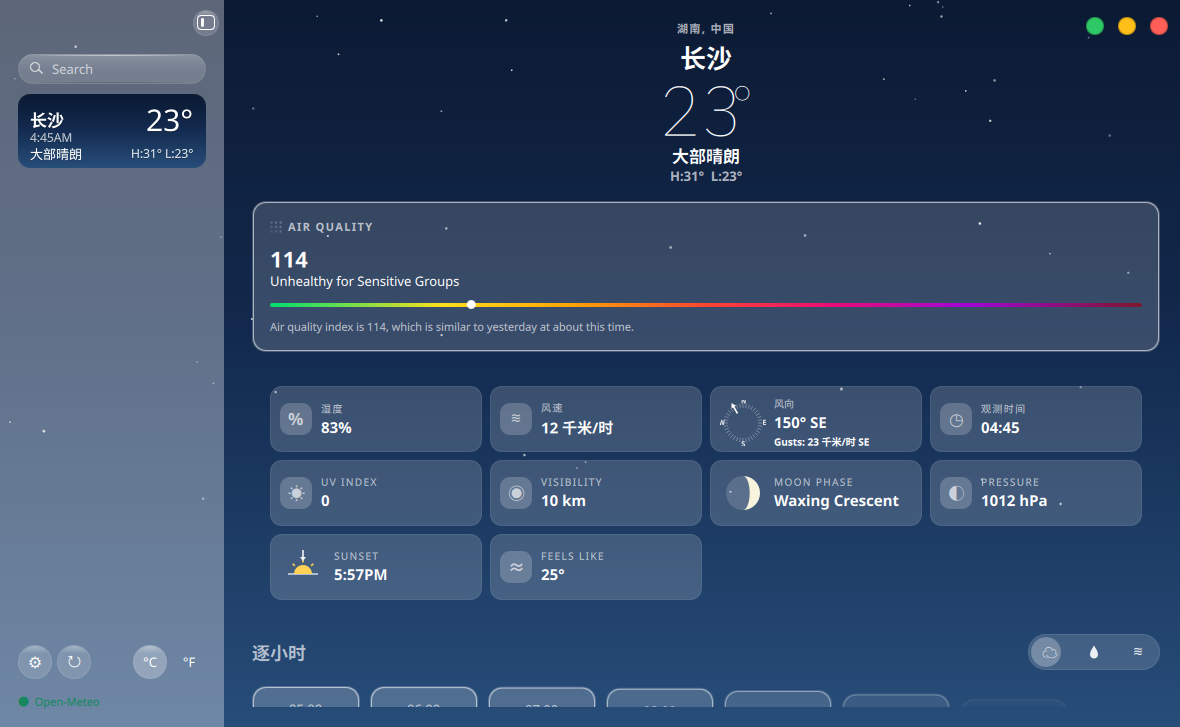
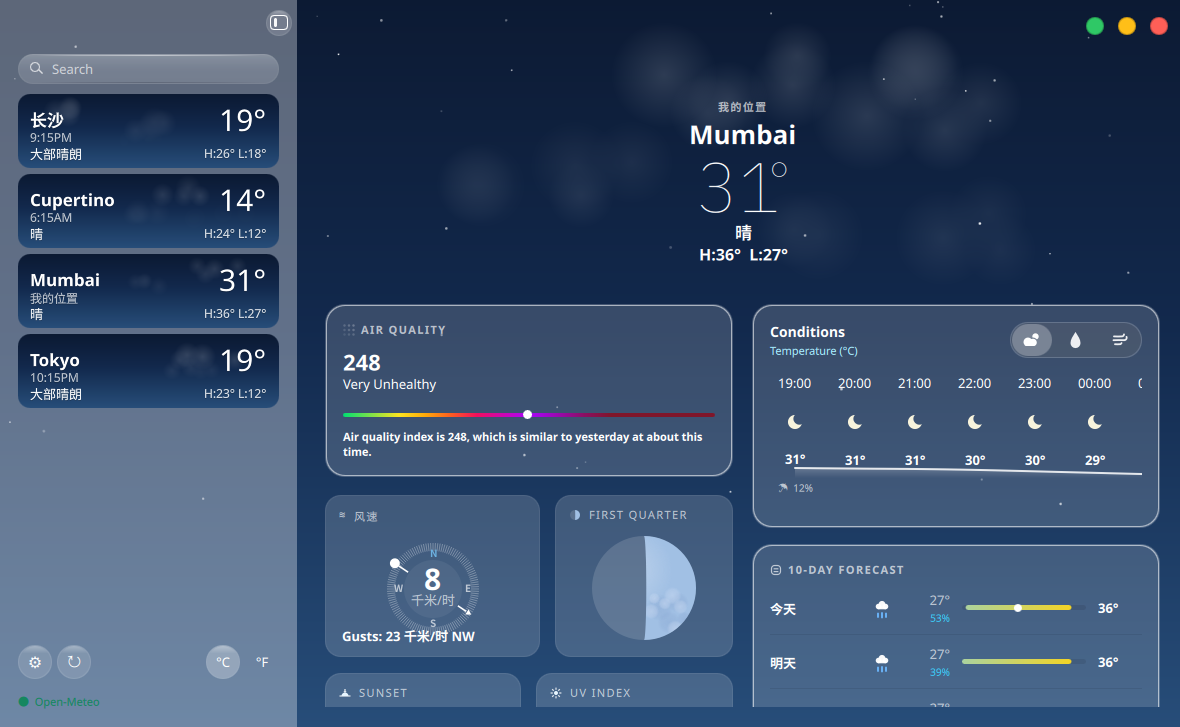
docs: round 65 进度与截图

diff --git a/docs/ui-weather/LEDGER.md b/docs/ui-weather/LEDGER.md
@@ -4,6 +4,10 @@
 参考实测色（814×498 主图采样）：天空 `#2961a7→#1469bc→#538ec9`（上→下，含云照片）；Conditions 卡 `#0057b2`；hero 文本 `#ffffff`；10天条渐变 青→黄→橙。
 
 ## 已改
+- **侧栏宽度首次校准：224 → 297（本轮，前端，零 Go/C++/shared 改动，巡检轮新发现）**：ref-main 侧栏右缘多点实测 x205（y=60/120/250/300 一致，sidebar bg (149,161,184) vs 主区 (93,122,166) 描边清晰）× 窗比 1180/814 ≈ **297px**——LEDGER 此前从未校准过侧栏宽度（grep 无记载），我方沿用 shared `AppTheme.sidebarWidth` 224（占比 19.0% vs ref 25.2%，本轮最大未校准残差）。`apps/weather/qml/Main.qml:19` 新增 `readonly property int weatherSidebarWidth: Math.round(297 * AppTheme.densityScale)`（shared 值 music 引用不动，weather 内 weather 局部覆盖）；三处非 compact 用点换用：`:565` clearSkyCloudLayer.cloudLeft、`:717` nightClearCloudLayer.cloudLeft、`:978` KosSidebar.expandedWidth（`AppTheme.compactSidebarWidth` 196 保持，窄窗/收起不受影响）。
+  **实测**（本轮二进制截图 tmp/shots/sbwidth-1792330584.png 过体检闸 ✅ 1180×727，dev env `XDG_STATE_HOME=/tmp/kos-weather-test-state` + `KOS_DATA_SOCKET=/tmp/kos-weather-dev.sock` + `KOS_SCREENSHOT_DELAY_MS=2500`）：侧栏右缘 x297 精确（y=500/700 双行描边一致）、占比 25.2% vs ref 25.2% 命中；卡片/搜索胶囊 fillWidth 自适应无裁切、AQ 描述随窄内容区换 2 行正常、hero/两列 masonry/10 天条无破绽。
+  **测试**：Qt `Totals: 6 passed, 0 failed`（env -u KOS_DATA_SOCKET）、go test ok。静态几何无动效改动，无帧差义务。
+  **残差（外推待确认）**：a) 297 系按 LEDGER 既有 ×1.4598 窗比口径折算——若 Apple 实为固定 pt 宽（macOS 惯例 ~300pt）结论相同，但更小窗下的行为无参考；b) 内容区收窄后逐小时可见列数 7→~6.5、hourly 校准（列距 60px）未复测。
 - **10 天预报温度渐变条色标：青→黄→橙 → 参考实测绿→黄绿→金（本轮，前端，零 Go/C++/shared/翻译改动，巡检轮新发现）**：patrol 截图（tmp/shots/patrol-1792329901.png 过体检闸 ✅）对照参考逐像素采样发现——我方条 ramp 低端青色（实测 fx0.25 #78c5ce）与参考不符：**tile-10day 原生分辨率**五条 bar 内部采样（y118/190/263/334/406 行，温程覆盖全周范围）：低端 #abd3a0（柔绿）、中段 #cfd17b（黄绿，G 通道全程 ~211-214 恒定、R 升 B 降的单族 ramp）、高端 #ffd603/#ffcb00/#ffd000（金）；ref-main 814 佐证（Thu 行 u=0 起点 #a8d4a4 → u=1 终点 #f9c10f，与原生同族仅降采样稀释）。旧 `#5ac8fa`（iOS 青）与 `#ff9f0a`（橙）系无参考外推值，不在参考色族内。`apps/weather/qml/Main.qml:324-326` tempColor 三色标 `#5ac8fa→#abd3a0` / `#ffd60a→#cfd17b`（原 mid 黄下移为中段）/ `#ff9f0a→#ffd60a`（高端金=原 mid 值，在实测 #ffd603 家族内），函数插值逻辑/调用点（:3274/:3278）/其他零改动。
   **实测**（本轮二进制截图 tmp/shots/bargrad-1792330201.png 过体检闸 ✅ 1180×727，dev env `XDG_STATE_HOME=/tmp/kos-weather-test-state` + `KOS_DATA_SOCKET=/tmp/kos-weather-dev.sock` + `KOS_SCREENSHOT_DELAY_MS=2500`）：今天/明天两行条低端 **#acd29e/#abd3a0 vs 目标 #abd3a0 精确命中**，ramp 绿→黄绿→金（fx0.75 #efd42d 逼近金端），青色/橙色消失；目视与 tile-10day 同构。
   **回归**（vs 改前 patrol-1792329901，2px 步进 diff>24）：224 采样，207 落 10 天条区 (x900-1110×y590-680)（色标本体），区外 17 稀疏点全落星空/时钟已知噪声族，整窗 MAE **0.042**——零结构位移。测试 Qt `Totals: 6 passed, 0 failed`、go test -count=1 ok。静态几何无动效改动，无帧差义务。
